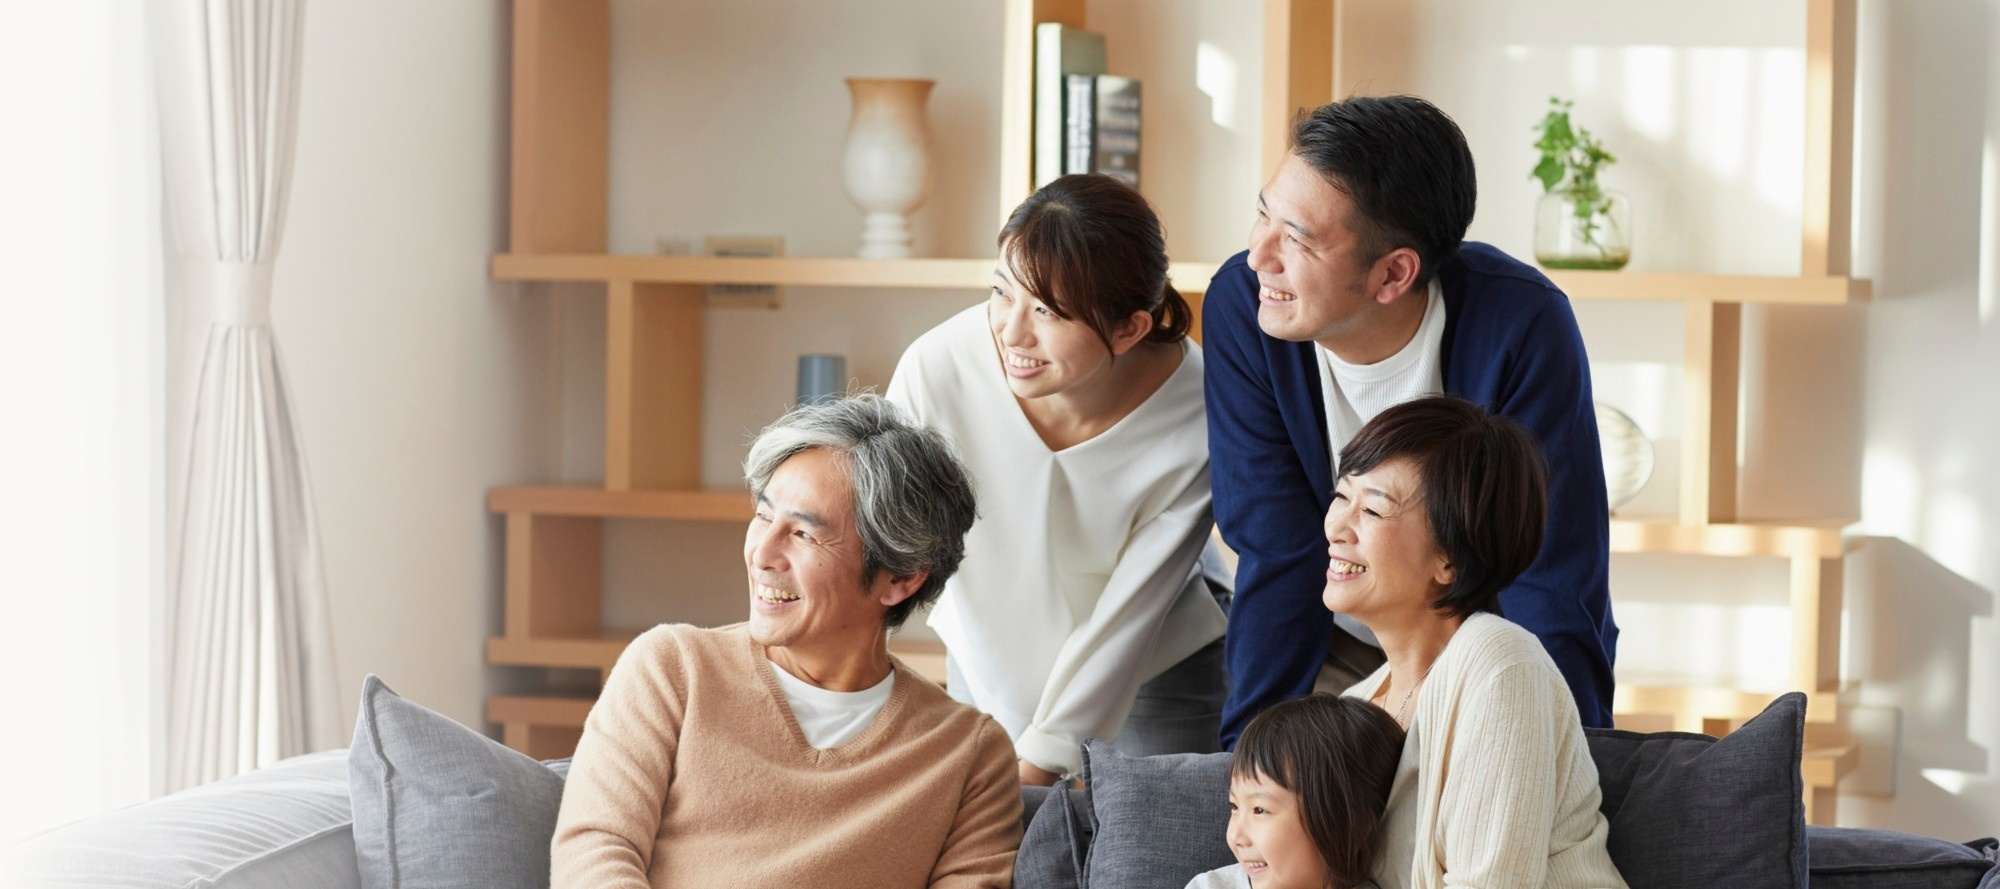
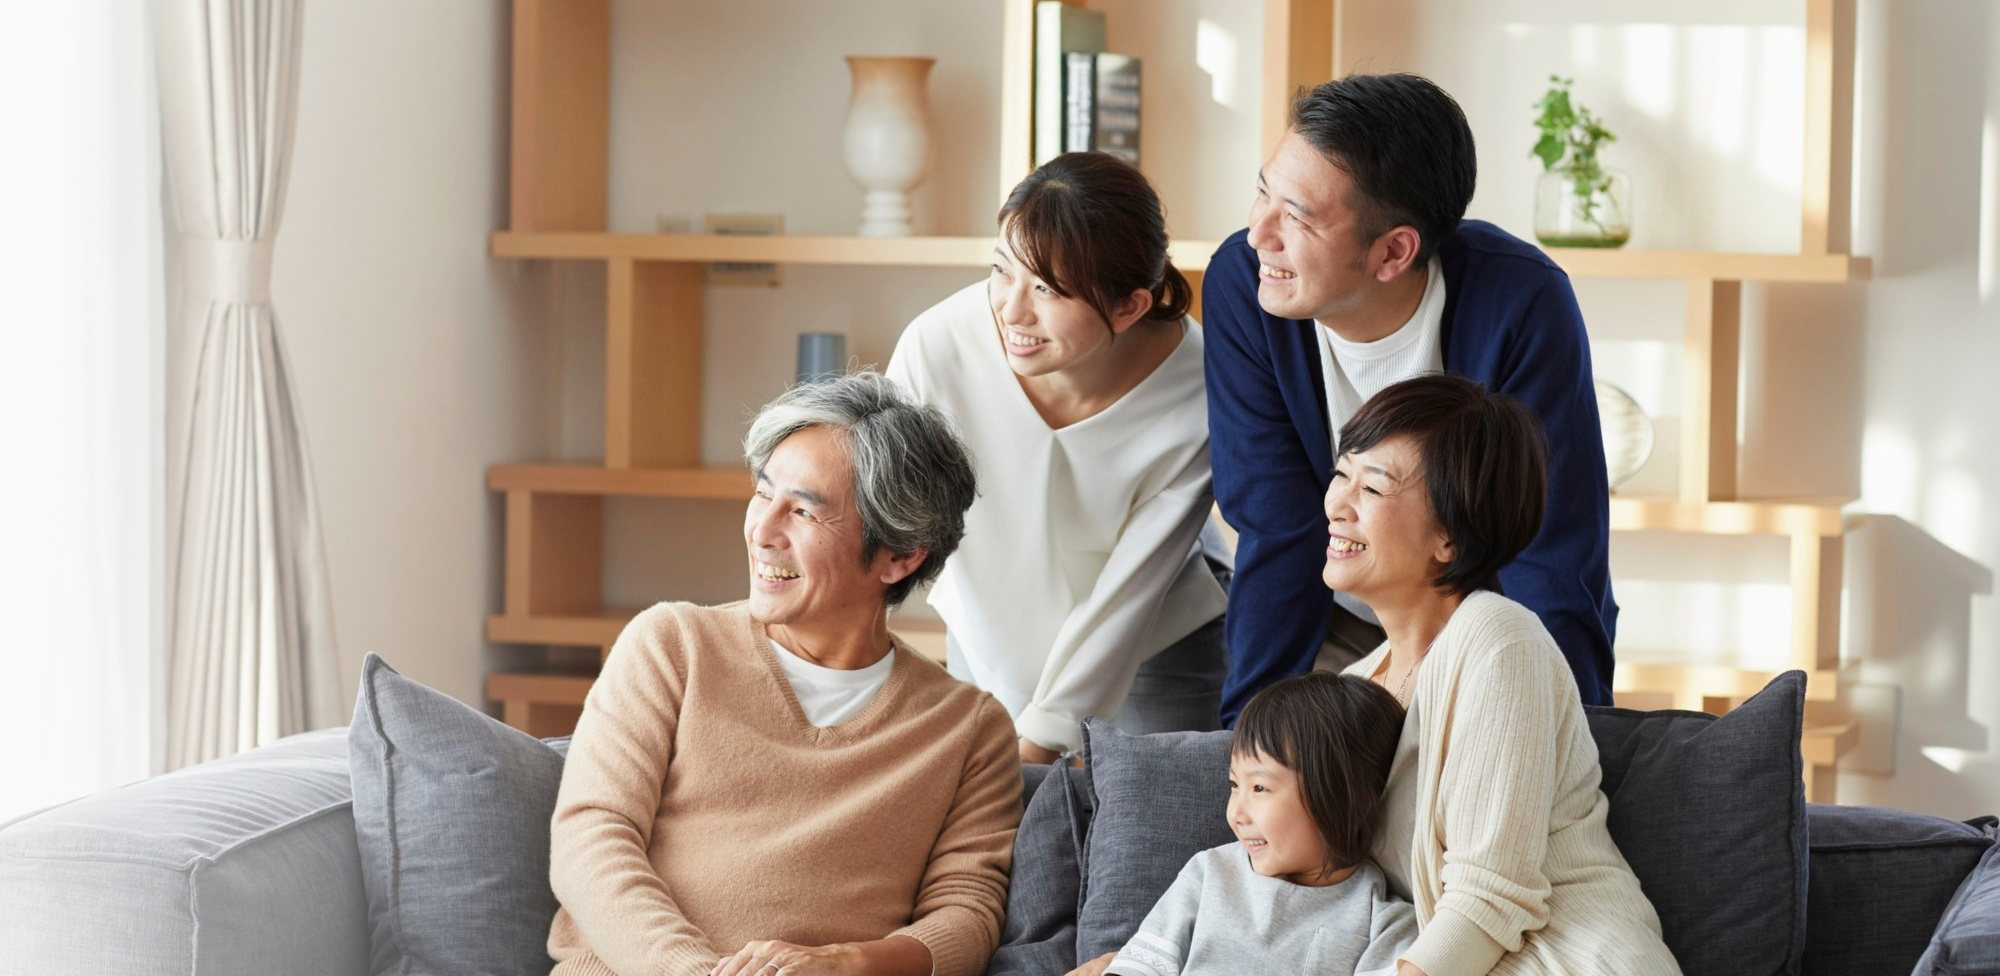
Match hero to reference design: spacious crop, gold/gray text restored
Re-cropped the hero photo with a milder ratio (2.05:1 vs 2.25:1) so more
of the room shows (full coffee table, more headroom), and lightened the
fade so the curtain's own natural white does more of the work instead of
a heavy cream overlay.

With the text now sitting on genuinely light background again, reverted
the eyebrow to gold, and the subtitle/trust-item descriptions back to
muted gray — the white+shadow treatment from a few iterations ago was a
workaround for a darker photo that no longer applies here.

Claude-Session: https://claude.ai/code/session_015VMfcbCcZRpeWEW8eBtkqB

diff --git a/styles.css b/styles.css
@@ -253,8 +253,7 @@ h1, h2, h3 {
 }
 
 .hero-split__eyebrow {
-  color: #fff;
-  text-shadow: 0 1px 2px rgba(0, 0, 0, .45), 0 2px 14px rgba(0, 0, 0, .3);
+  color: var(--color-primary);
   font-weight: 700;
   margin-bottom: 16px;
 }
@@ -274,8 +273,7 @@ h1, h2, h3 {
 }
 
 .hero-split__subtitle {
-  color: #fff;
-  text-shadow: 0 1px 2px rgba(0, 0, 0, .45), 0 2px 14px rgba(0, 0, 0, .3);
+  color: var(--color-text-muted);
   font-size: 1.05rem;
   max-width: 460px;
   margin: 0 0 32px;
@@ -326,8 +324,7 @@ h1, h2, h3 {
 
 .hero-split__trust-item span {
   display: block;
-  color: #fff;
-  text-shadow: 0 1px 2px rgba(0, 0, 0, .45), 0 2px 14px rgba(0, 0, 0, .3);
+  color: var(--color-text-muted);
   font-size: .8rem;
 }
 
